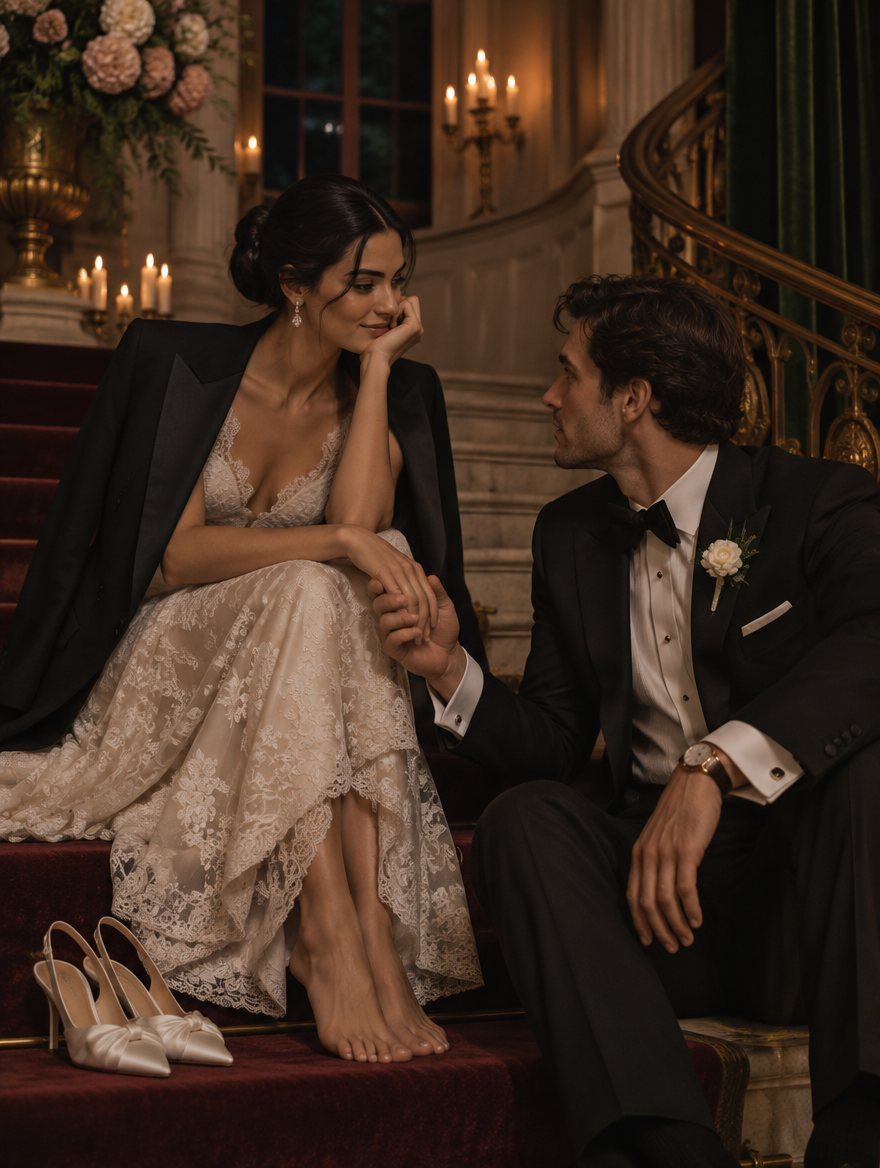
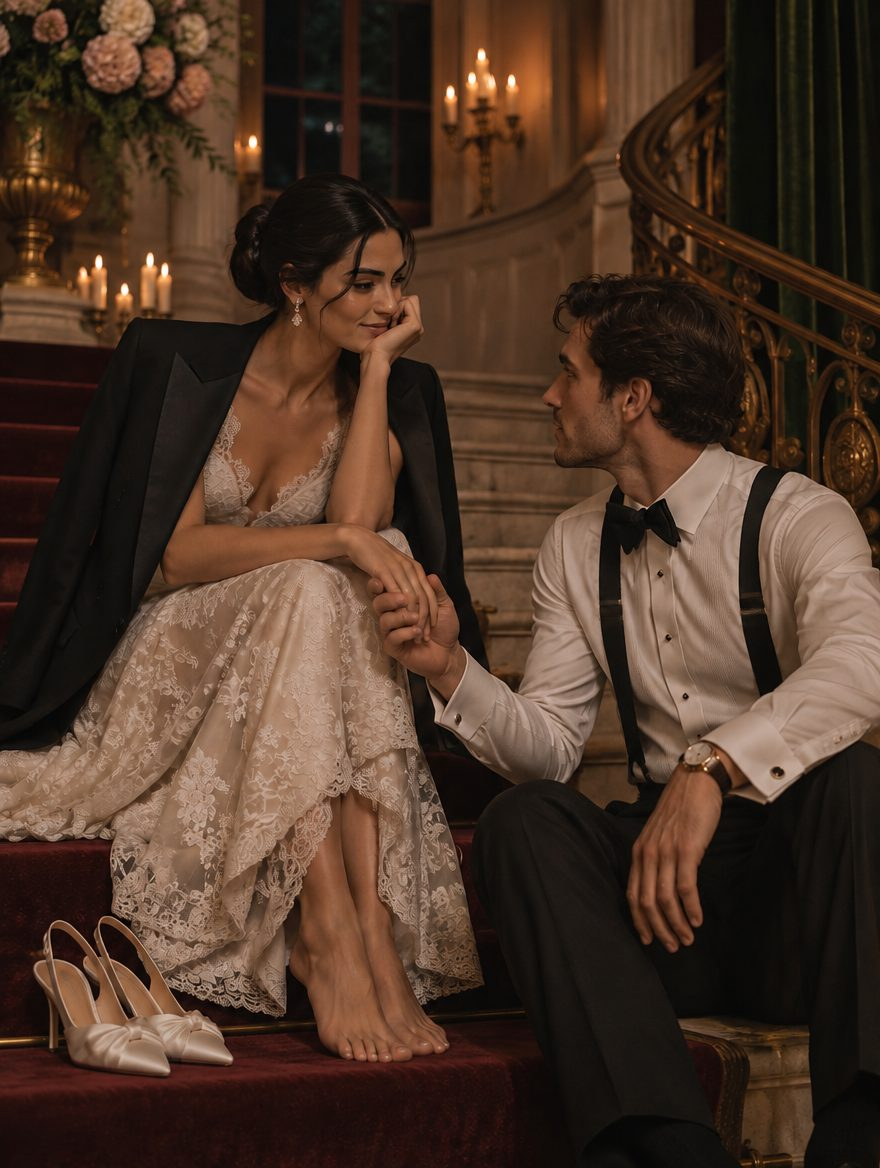
Velvet Romance: el novio sin saco en la escalera (lo lleva la novia)

diff --git a/public/propuestas/velvet-romance/index.html b/public/propuestas/velvet-romance/index.html
@@ -11,13 +11,13 @@
 <meta property="og:title" content="Velvet Romance · Propuesta editorial">
 <meta property="og:description" content="Una boda íntima en una casona porfiriana de la Ciudad de México en 1950. Una ceremonia en el salón, una cena de gala y la última canción.">
 <meta property="og:url" content="https://arrebolweddings.com/propuestas/velvet-romance/">
-<meta property="og:image" content="https://arrebolweddings.com/propuestas/velvet-romance/og.jpg?v=3">
+<meta property="og:image" content="https://arrebolweddings.com/propuestas/velvet-romance/og.jpg?v=4">
 <meta property="og:image:width" content="1200">
 <meta property="og:image:height" content="630">
 <meta property="og:locale" content="es_MX">
 <meta name="twitter:card" content="summary_large_image">
 <meta name="twitter:title" content="Velvet Romance · Propuesta editorial">
-<meta name="twitter:image" content="https://arrebolweddings.com/propuestas/velvet-romance/og.jpg?v=3">
+<meta name="twitter:image" content="https://arrebolweddings.com/propuestas/velvet-romance/og.jpg?v=4">
 <link rel="icon" href="/icon.png">
 <title>Velvet Romance · Propuesta editorial · Arrebol Weddings</title>
 <link rel="preconnect" href="https://fonts.googleapis.com">
@@ -164,7 +164,7 @@ section{padding:clamp(56px,8vw,96px) 0;border-top:1px solid var(--line)}
     <div class="grid">
       <figure><img src="img/escalera-bn.jpg" alt="Escalera de la casona en blanco y negro con la pareja bailando sola" width="880" height="1168" loading="lazy"><figcaption>La escalera</figcaption></figure>
       <figure><img src="img/velas.jpg" alt="Velas consumidas, pétalos y un guante en la duela junto al terciopelo verde" width="880" height="1168" loading="lazy"><figcaption>Lo que queda de la noche</figcaption></figure>
-      <figure><img src="img/escalera-descalza.jpg" alt="La novia descalza en la escalera con el saco del novio" width="880" height="1168" loading="lazy"><figcaption>Descalza, con su saco</figcaption></figure>
+      <figure><img src="img/escalera-descalza.jpg" alt="La novia descalza en la escalera con el saco del novio; él en camisa y tirantes" width="880" height="1168" loading="lazy"><figcaption>Descalza, con su saco</figcaption></figure>
       <figure><img src="img/ventanal-bn.jpg" alt="Silueta de la pareja frente al ventanal en blanco y negro" width="880" height="1168" loading="lazy"><figcaption>La última canción</figcaption></figure>
     </div>
   </div>
